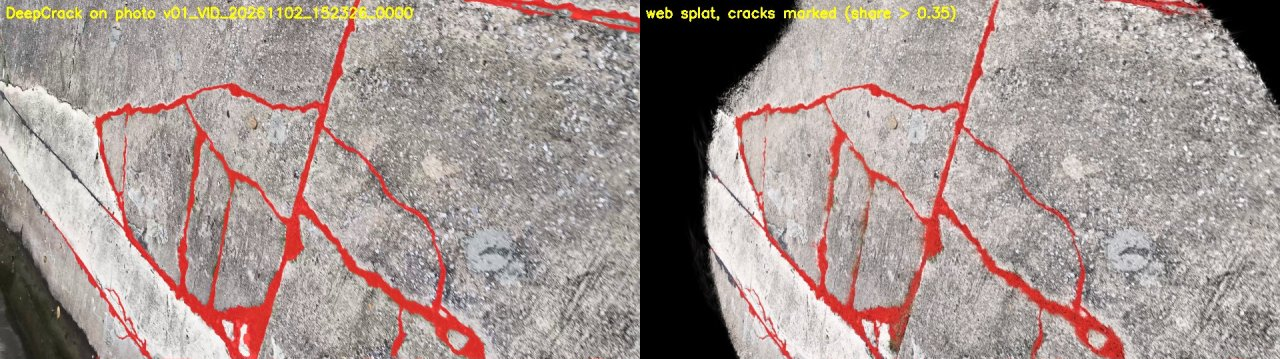
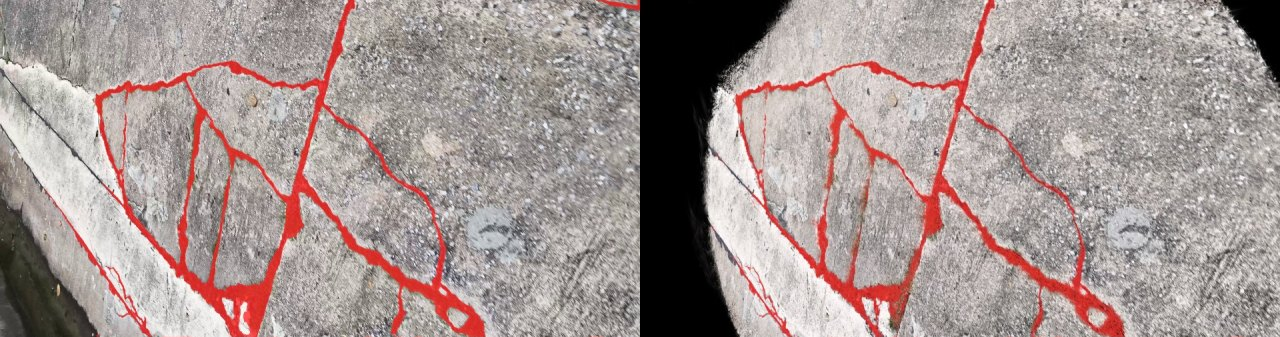
Add MIT licence, shrink README media, remove machine-specific paths
- LICENSE (MIT); README licence section keeps the third-party terms that
  bear on the splats (Difix3D+) and the model weights (public datasets).
- README animations as animated WebP from the source videos (12.4 MB ->
  3.4 MB); clean labels on the hero, crack-label and Difix images.
- Scripts read the data folder from ROAD_CRACK_DATA (default: data\ in the
  repository) instead of C:\3D-segmentation-data; Visual Studio 2022, the
  CUDA toolkit, Edge and the Tahoma font are found in their usual places.
- difix_top_queue.ps1 and difix_4k_pilot.ps1 no longer call the crop
  helpers that were never part of the repository.
- Model READMEs no longer point at the local training folder.

diff --git a/difix/difix_road.py b/difix/difix_road.py
@@ -25,6 +25,8 @@ from scipy.ndimage import gaussian_filter1d
 from scipy.spatial import cKDTree
 
 ROOT = os.path.dirname(os.path.dirname(os.path.abspath(__file__)))  # the repository
+# The work folders (road_crack\<clip> from clips_to_splats.ps1, difix\road_<clip> from these scripts)
+DATA = os.environ.get("ROAD_CRACK_DATA") or rf"{ROOT}\data"
 GSPLAT = rf"{ROOT}\third_party\gsplat\examples"
 sys.path.insert(0, GSPLAT)
 sys.path.insert(0, rf"{ROOT}\gaussian_splatting")
@@ -38,7 +40,7 @@ dev = "cuda"
 
 
 def make_runner(clip, max_steps):
-    os.environ["GSPLAT_DEPTH_PRIOR_DIR"] = rf"C:\3D-segmentation-data\road_crack\{clip}\depth_prior"
+    os.environ["GSPLAT_DEPTH_PRIOR_DIR"] = rf"{DATA}\road_crack\{clip}\depth_prior"
     os.environ["GSPLAT_DEPTH_PRIOR_SAMPLES"] = "40000"  # clips_to_splats.ps1 -DepthPrior
     import simple_trainer
     from lib_bilagrid import BilateralGrid, slice
@@ -46,7 +48,7 @@ def make_runner(clip, max_steps):
 
     with open(rf"{ROOT}\runs\road_crack_{clip}_v2\cfg.yml") as f:
         saved = yaml.unsafe_load(f)
-    saved.update(result_dir=rf"C:\3D-segmentation-data\difix\road_{clip}\runner", max_steps=max_steps,
+    saved.update(result_dir=rf"{DATA}\difix\road_{clip}\runner", max_steps=max_steps,
                  disable_viewer=True, ckpt=None, resume=None)
     if os.environ.get("DIFIX_ROAD_SCENE"):  # e.g. difix_road_4k.py's 4K scene: same poses, other images
         saved["data_dir"] = os.environ["DIFIX_ROAD_SCENE"]

diff --git a/edge_ai/trt_crack.py b/edge_ai/trt_crack.py
@@ -29,7 +29,19 @@ import cv2
 import numpy as np
 import torch
 
-PACKAGE = os.path.join(os.path.dirname(os.path.abspath(__file__)), "..", "models", "deepcrack", "crack_detector_1class_best")
+ROOT = os.path.dirname(os.path.dirname(os.path.abspath(__file__)))  # the repository
+PACKAGE = os.path.join(ROOT, "models", "deepcrack", "crack_detector_1class_best")
+
+
+def road_photos():
+    """Every clip's undistorted photos, <data>\\road_crack\\<clip>\\scene\\images (clips_to_splats.ps1 writes them);
+    <data> is ROAD_CRACK_DATA or, when that is not set, the repository's data folder."""
+    data = os.environ.get("ROAD_CRACK_DATA") or os.path.join(ROOT, "data")
+    pattern = os.path.join(data, "road_crack", "*", "scene", "images", "*.png")
+    files = sorted(glob.glob(pattern))
+    if not files:
+        raise SystemExit(f"no road photos at {pattern}; set ROAD_CRACK_DATA to the folder holding road_crack")
+    return files
 
 
 def package():
@@ -132,7 +144,7 @@ def build(args):
 def check(args):
     det = package().CrackDetector()
     eng = Engine(args.engine)
-    files = sorted(glob.glob(r"C:\3D-segmentation-data\road_crack\*\scene\images\*.png"))
+    files = road_photos()
     files = files[:: max(1, len(files) // args.frames)][: args.frames]
     rows = {"upright 540x960": [], "as filmed 960x540": []}
     for f in files:

diff --git a/edge_ai/trt_nvfp4.py b/edge_ai/trt_nvfp4.py
@@ -12,7 +12,6 @@ Calibration: --calib road photos (other ones than trt_crack.py check uses), each
 that many other photos (mean |prob diff|, mask IoU), to tell the quantization's own error from the engine's.
 """
 import argparse
-import glob
 import os
 import sys
 import time
@@ -24,7 +23,7 @@ import torch
 
 warnings.filterwarnings("ignore", category=UserWarning)
 sys.path.insert(0, os.path.dirname(os.path.abspath(__file__)))
-from trt_crack import package  # noqa: E402
+from trt_crack import package, road_photos  # noqa: E402
 
 import modelopt.torch.quantization as mtq  # noqa: E402
 from modelopt.torch._deploy.utils.torch_onnx import OnnxBytes, get_onnx_bytes_and_metadata  # noqa: E402
@@ -55,7 +54,7 @@ for block in [m.block for m in model.modules() if type(m).__name__ == "CNBlock"]
     assert isinstance(block[3], torch.nn.Linear) and isinstance(block[5], torch.nn.Linear), block
     block[3] = FlatMLP(block[3], block[4], block[5])
     block[4], block[5] = torch.nn.Identity(), torch.nn.Identity()
-files = sorted(glob.glob(r"C:\3D-segmentation-data\road_crack\*\scene\images\*.png"))
+files = road_photos()
 
 
 def tensors(paths):

diff --git a/gaussian_splatting/render_clip_tour.py b/gaussian_splatting/render_clip_tour.py
@@ -12,7 +12,7 @@ down one side of the filmed strip, round its end and back up the other, always l
 stretch from the phone's viewing distance. Framing the whole strip at once would mean looking from
 ten times the phone's height, where cracks vanish and the roadside floaters dominate.
 
-    python -I gaussian_splatting/render_clip_tour.py --scene C:/3D-segmentation-data/road_crack/151605/scene \
+    python -I gaussian_splatting/render_clip_tour.py --scene <data>/road_crack/151605/scene \
         --ply runs/road_crack_151605/ply/point_cloud_19999.ply --output hole_1.mp4 --label "Hole 1"
 """
 
@@ -166,7 +166,7 @@ def main() -> None:
     del data
     Kt = torch.tensor([[focal, 0, W / 2], [0, focal, H / 2], [0, 0, 1]], device=dev, dtype=torch.float32)[None]
     background = torch.tensor([[0.55, 0.56, 0.58]], device=dev)
-    font = ImageFont.truetype(r"C:\Windows\Fonts\tahoma.ttf", 48)
+    font = ImageFont.truetype("tahoma.ttf", 48)  # Pillow looks a bare file name up in the Windows fonts folder
 
     def render(eye: np.ndarray, target: np.ndarray) -> np.ndarray:
         c2w = np.eye(4)

diff --git a/web/tools/screenshot.py b/web/tools/screenshot.py
@@ -9,6 +9,7 @@
 import asyncio
 import base64
 import json
+import os
 import subprocess
 import sys
 import tempfile
@@ -17,7 +18,10 @@ import urllib.request
 
 import websockets
 
-EDGE = r"C:\Program Files (x86)\Microsoft\Edge\Application\msedge.exe"
+# Microsoft Edge: EDGE_PATH, else its usual install folders, else msedge on PATH
+EDGE = os.environ.get("EDGE_PATH") or next(
+    (p for p in (os.path.join(os.environ.get(v, ""), "Microsoft", "Edge", "Application", "msedge.exe")
+                 for v in ("ProgramFiles(x86)", "ProgramFiles")) if os.path.isfile(p)), "msedge")
 url, out = sys.argv[1], sys.argv[2]
 orbit = float(sys.argv[sys.argv.index("--orbit") + 1]) if "--orbit" in sys.argv else 0.0
 zoom_out = int(sys.argv[sys.argv.index("--zoom-out") + 1]) if "--zoom-out" in sys.argv else 0

diff --git a/web/tools/crack_labels.py b/web/tools/crack_labels.py
@@ -14,8 +14,8 @@ make_ksplat.mjs regroups the splats, so the labels are carried over by position:
 .ksplat's centres in the order the viewer indexes them. The output holds the crack splats' indices in that order,
 uint32 little-endian. A sheet compares the detector on photos with the marked splat seen from the same poses.
 
-    python -I web/tools/crack_labels.py --scene C:/3D-segmentation-data/road_crack/151720/scene \
-        --ply C:/3D-segmentation-data/difix/road_151720/hole_2_4k_cut.ply --ksplat web/public/splats/hole_2.ksplat
+    python -I web/tools/crack_labels.py --scene <data>/road_crack/151720/scene \
+        --ply <data>/difix/road_151720/hole_2_4k_cut.ply --ksplat web/public/splats/hole_2.ksplat
 """
 
 from __future__ import annotations

diff --git a/web/tools/page_shot.py b/web/tools/page_shot.py
@@ -10,6 +10,7 @@ import argparse
 import asyncio
 import base64
 import json
+import os
 import subprocess
 import tempfile
 import time
@@ -17,7 +18,10 @@ import urllib.request
 
 import websockets
 
-EDGE = r"C:\Program Files (x86)\Microsoft\Edge\Application\msedge.exe"
+# Microsoft Edge: EDGE_PATH, else its usual install folders, else msedge on PATH
+EDGE = os.environ.get("EDGE_PATH") or next(
+    (p for p in (os.path.join(os.environ.get(v, ""), "Microsoft", "Edge", "Application", "msedge.exe")
+                 for v in ("ProgramFiles(x86)", "ProgramFiles")) if os.path.isfile(p)), "msedge")
 ap = argparse.ArgumentParser()
 ap.add_argument("url")
 ap.add_argument("out")

diff --git a/gaussian_splatting/export_web_splat.py b/gaussian_splatting/export_web_splat.py
@@ -8,7 +8,7 @@ degree 3 and degree 0 matched, and it is 45 of the 59 values per Gaussian. Every
 written at full precision, so a later .ksplat conversion decides the only loss. A JSON beside the
 PLY holds the opening camera.
 
-    python -I gaussian_splatting/export_web_splat.py --scene C:/3D-segmentation-data/road_crack/151605/scene \
+    python -I gaussian_splatting/export_web_splat.py --scene <data>/road_crack/151605/scene \
         --ply runs/road_crack_151605_v2/sharp.ply --output web/public/splats/hole_1.ply
 """
 

diff --git a/gaussian_splatting/clean_floaters.py b/gaussian_splatting/clean_floaters.py
@@ -19,7 +19,7 @@ splat smeared it.
 
 The PLY stays in the trainer's frame, so render_clip_tour.py and gsplat tools read it unchanged.
 
-    python -I gaussian_splatting/clean_floaters.py --scene C:/3D-segmentation-data/road_crack/152410/scene \
+    python -I gaussian_splatting/clean_floaters.py --scene <data>/road_crack/152410/scene \
         --ply runs/road_crack_152410_v2/ply/point_cloud_39999.ply --output runs/road_crack_152410_v2/clean.ply
 """
 

diff --git a/difix/difix_road_4k.py b/difix/difix_road_4k.py
@@ -51,7 +51,7 @@ ERODE = 33  # px of a 4K tile (about 16 at 1080p): wider than an edge Gaussian's
 
 
 def use_4k(clip):
-    os.environ["DIFIX_ROAD_SCENE"] = rf"C:\3D-segmentation-data\difix\road_{clip}\scene_4k"
+    os.environ["DIFIX_ROAD_SCENE"] = rf"{dr.DATA}\difix\road_{clip}\scene_4k"
 
 
 def load_views(d):

diff --git a/README.md b/README.md
@@ -61,7 +61,7 @@ the same pose, with Gaussians labelled as crack drawn in red.
 **Orbit around a reconstruction** (section 2; full video:
 [`samples/videos/orbit/hole_2_151720_orbit.mp4`](samples/videos/orbit/hole_2_151720_orbit.mp4)).
 
-<p align="center"><img src="docs/media/orbit_hole2.gif" width="60%" alt="Orbit around the reconstructed road section"></p>
+<p align="center"><img src="docs/media/orbit_hole2.webp" width="60%" alt="Orbit around the reconstructed road section"></p>
 
 **Difix3D+ refinement**, before (left) and after (right), seen from novel viewpoints.
 
@@ -71,12 +71,12 @@ the same pose, with Gaussians labelled as crack drawn in red.
 (full video:
 [`samples/videos/edge_ai/hole_2_151720_edge_compare.mp4`](samples/videos/edge_ai/hole_2_151720_edge_compare.mp4)).
 
-<p align="center"><img src="docs/media/edge_steadying_hole2.gif" width="60%" alt="Frame-by-frame versus stabilised crack detection"></p>
+<p align="center"><img src="docs/media/edge_steadying_hole2.webp" width="60%" alt="Frame-by-frame versus stabilised crack detection"></p>
 
 **Real-time streaming simulation** with the TensorRT engine, on a road walk (full video:
 [`samples/videos/stream_sim/walk_153250_stream_trt_30s.mp4`](samples/videos/stream_sim/walk_153250_stream_trt_30s.mp4)).
 
-<p align="center"><img src="docs/media/stream_sim_walk.gif" width="80%" alt="Real-time crack detection on a road walk"></p>
+<p align="center"><img src="docs/media/stream_sim_walk.webp" width="80%" alt="Real-time crack detection on a road walk"></p>
 
 More material is in [`samples/`](samples):
 - preview sheets for all eight sections (`previews/cracks`, `previews/difix_before_after`);
@@ -101,6 +101,9 @@ More material is in [`samples/`](samples):
 | `docs/media/` | Images and animations used in this document |
 
 Large binary files (`*.ksplat`, `*.pt`, `*.mp4`) are stored with Git LFS. Run `git lfs install` before cloning.
+
+File names and script parameters call the road sections `hole_1` to `hole_8` (`-Hole <n>`): `hole_<n>` is
+section *n* of this document and of the viewer.
 
 ## Method
 
@@ -341,6 +344,13 @@ CUDA 12.8 and NVIDIA driver 582.16.
 | `.venv-difix` | Difix3D+ (`nvidia/difix_ref`); the Difix3D source code is obtained separately |
 | `.venv-trt` | TensorRT 11.5, NVIDIA Model Optimizer 0.48, PyTorch 2.9.1 (CUDA 12.8), ONNX |
 
+**Data folder.** The work folders live under one data folder, `<data>`: the environment variable
+`ROAD_CRACK_DATA` or, when that is not set, `data\` in the repository (ignored by git).
+- `<data>\road_crack\<clip>\`: frames, COLMAP model, undistorted scene and depth maps of each clip
+  (`clips_to_splats.ps1 -Work <data>\road_crack`).
+- `<data>\difix\road_<clip>\`: the Difix3D+ rounds; the Difix3D source code goes in
+  `<data>\difix\Difix3D`.
+
 **COLMAP.** COLMAP 4.x is not included.
 - Install the Windows CUDA build from the COLMAP releases into `export/colmap_pipeline/colmap_bin/`.
 - Place the FAISS vocabulary tree `vocab_tree_faiss_flickr100K_words32K.bin` in
@@ -350,7 +360,7 @@ CUDA 12.8 and NVIDIA driver 582.16.
 
 1. **Reconstruction.**
    ```powershell
-   .\gaussian_splatting\clips_to_splats.ps1 -Clips <clip folder> -Work <work folder> -DepthPrior
+   .\gaussian_splatting\clips_to_splats.ps1 -Clips <clip folder> -Work <data>\road_crack -DepthPrior
    ```
 2. **Export without refinement.** `web\tools\build_all.ps1` runs floater removal, cropping and `.ksplat`
    conversion for every section.
@@ -361,7 +371,7 @@ CUDA 12.8 and NVIDIA driver 582.16.
    - `difix_road_queue.ps1` and `difix_top_queue.ps1`: all sections.
 4. **Crack labels.**
    ```powershell
-   .\.venv-gsplat311\Scripts\python.exe -I web\tools\crack_labels.py --scene <work>\<clip>\scene `
+   .\.venv-gsplat311\Scripts\python.exe -I web\tools\crack_labels.py --scene <data>\road_crack\<clip>\scene `
        --ply <PLY the .ksplat was built from> --ksplat web\public\splats\hole_<n>.ksplat
    ```
    Rebuilding a `.ksplat` invalidates its `.cracks.bin`.
@@ -394,16 +404,8 @@ four adaptations for Model Optimizer 0.48 and TensorRT 11.5 on Windows, all impl
   The label transfer uses the earlier detector (`crack_detector`).
 - **Distance.** In walking footage, fine cracks far from the camera are sometimes missed. The detectors were
   trained mainly on close-range and line-scan imagery.
-- **Machine-specific paths.** Several scripts refer to the original data folders (`C:\3D-segmentation-data\...`)
-  and tool installation paths:
-  - `clips_to_splats.ps1` (as parameters);
-  - `web/tools/build_all.ps1`;
-  - the `difix/` scripts;
-  - `edge_ai/trt_crack.py check` and `edge_ai/trt_nvfp4.py`;
-  - `edge_ai/with_msvc.cmd`.
-
-  Adjust them before running elsewhere. Model paths are relative to the repository.
-- **Platform.** The pipeline scripts are written for Windows PowerShell.
+- **Platform.** The pipeline scripts are written for Windows PowerShell. They find Visual Studio 2022, the
+  CUDA toolkit (`CUDA_HOME` or `CUDA_PATH`) and Microsoft Edge (`EDGE_PATH`) in their usual locations.
 
 ## Privacy
 
@@ -416,7 +418,11 @@ Vehicles in the sample videos are blurred with `tools/blur_vehicles.py`, so that
 
 ## Licence and third-party components
 
-No licence has yet been specified for the original content of this repository.
+The original content of this repository is released under the [MIT License](LICENSE).
+
+The third-party components below keep their own terms. They also bear on two kinds of files in this
+repository: the reconstructions in `web/public/splats/` were refined with Difix3D+, and the model weights
+were trained on public crack datasets. Check those terms before any commercial use of these files.
 
 | Component | Licence | Notes |
 |---|---|---|

diff --git a/models/deepcrack/crack_detector_1class_best/README.md b/models/deepcrack/crack_detector_1class_best/README.md
@@ -13,7 +13,7 @@
 | `requirements.txt` | library ที่ต้องใช้ ได้แก่ torch, torchvision, opencv-python และ numpy |
 | `plots/` | กราฟการเทรนและผลทดสอบ (ภาษาอังกฤษ) และภาพตัวอย่างผลบนภาพสแกนทดสอบของเรา |
 
-คัดลอกทั้งโฟลเดอร์ไปไว้ในโปรเจ็คอื่นได้เลย ไม่ต้องใช้โค้ดใน D:\DeepCrack
+คัดลอกทั้งโฟลเดอร์ไปไว้ในโปรเจ็คอื่นได้เลย ไม่ต้องใช้โค้ดเทรน (ซึ่งไม่ได้รวมอยู่ใน repository นี้)
 
 ใช้แทนแพ็กเกจรุ่นก่อน (weight `deepcrack_convnext_small_aug_v3.pt`) ได้ทันที เพราะคำสั่งใช้งานเหมือนเดิม
 มีสิ่งที่เปลี่ยน 3 อย่าง:
@@ -140,5 +140,5 @@ python crack_detector.py scans/ --out results/ --thr 0.3 --min-area 0 --tile 102
 - **แถบตรงแนวนอนในภาพสแกนใหม่:** ภาพสแกนเดือน ต.ค. 2026 บางภาพมีเส้นตรงยาวที่ลายผิวถนนเหลื่อมกัน (น่าจะเป็นรอยต่อของตัวภาพสแกน) โมเดลอาจทายเส้นนี้เป็นรอยแตก
 - **ความกว้างของรอยแตกที่ทำนาย:** แต่ละแหล่งข้อมูลวาด label ไม่เหมือนกัน บางแหล่งวาดแค่เส้นกลางกว้าง 1 pixel บางแหล่งวาดเต็มความกว้างของรอยแตก ถ้าต้องวัดความกว้างให้แม่นยำ ควรปรับ `threshold` โดยเทียบกับภาพที่รู้ความกว้างจริง
 - **รูปแบบไฟล์ weight:** `torch.load(..., weights_only=True)` ให้ dict ที่มี `state_dict`, `threshold`, `min_area`, `test_metrics` และข้อมูลการเทรน ดูได้จาก `det.info`
-- **ที่มา:** weight มาจาก `D:\DeepCrack\runs\deepcrack_convnext_small_final_aug_1class_own\last.pt` (EMA weights) วิธีเทรนดู preset `convnext_small_final_aug_1class_own` ใน `D:\DeepCrack\config.py`
-- **รุ่นก่อน:** เก็บไว้ที่ `D:\DeepCrack\export\crack_detector_1class_2026-11-17` (และ `.zip`)
+- **ที่มา:** weight มาจาก checkpoint สุดท้าย (`last.pt`) ของ run `deepcrack_convnext_small_final_aug_1class_own` (EMA weights) เทรนด้วย preset `convnext_small_final_aug_1class_own` ของโค้ดเทรน ซึ่งไม่ได้รวมอยู่ใน repository นี้
+- **รุ่นก่อน:** แพ็กเกจ `crack_detector_1class_2026-11-17` ไม่ได้รวมอยู่ใน repository นี้
